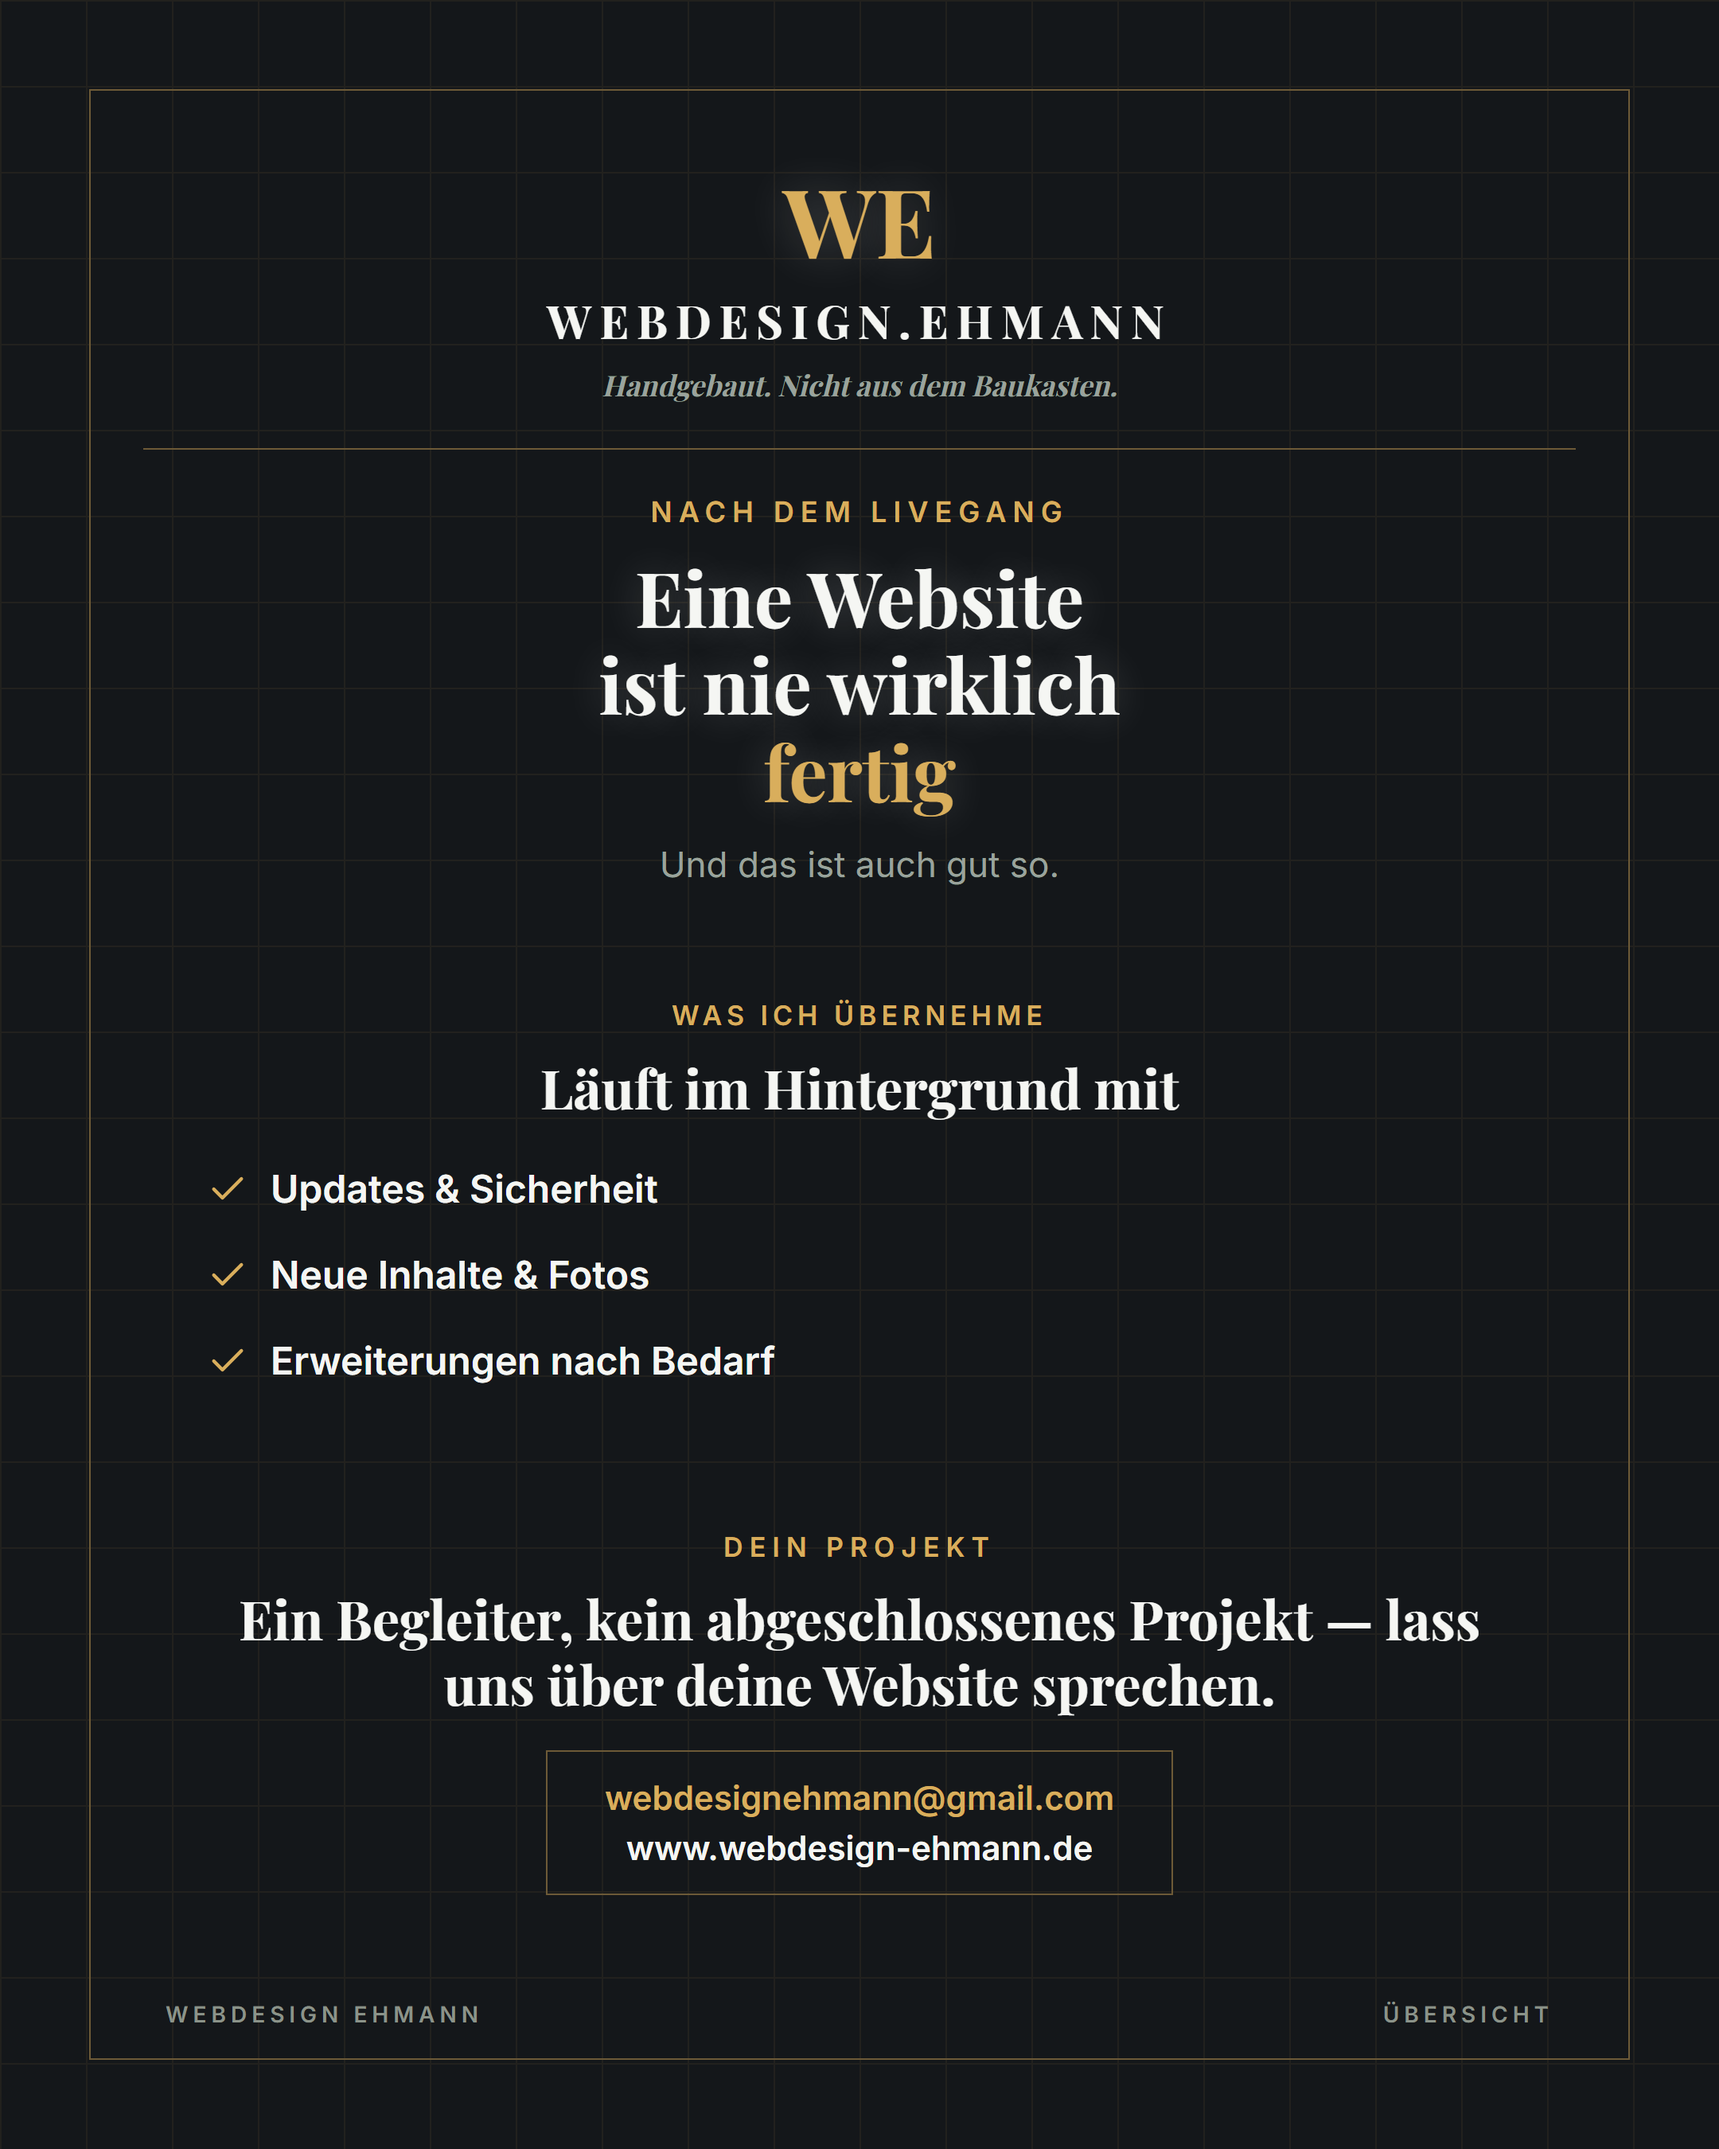
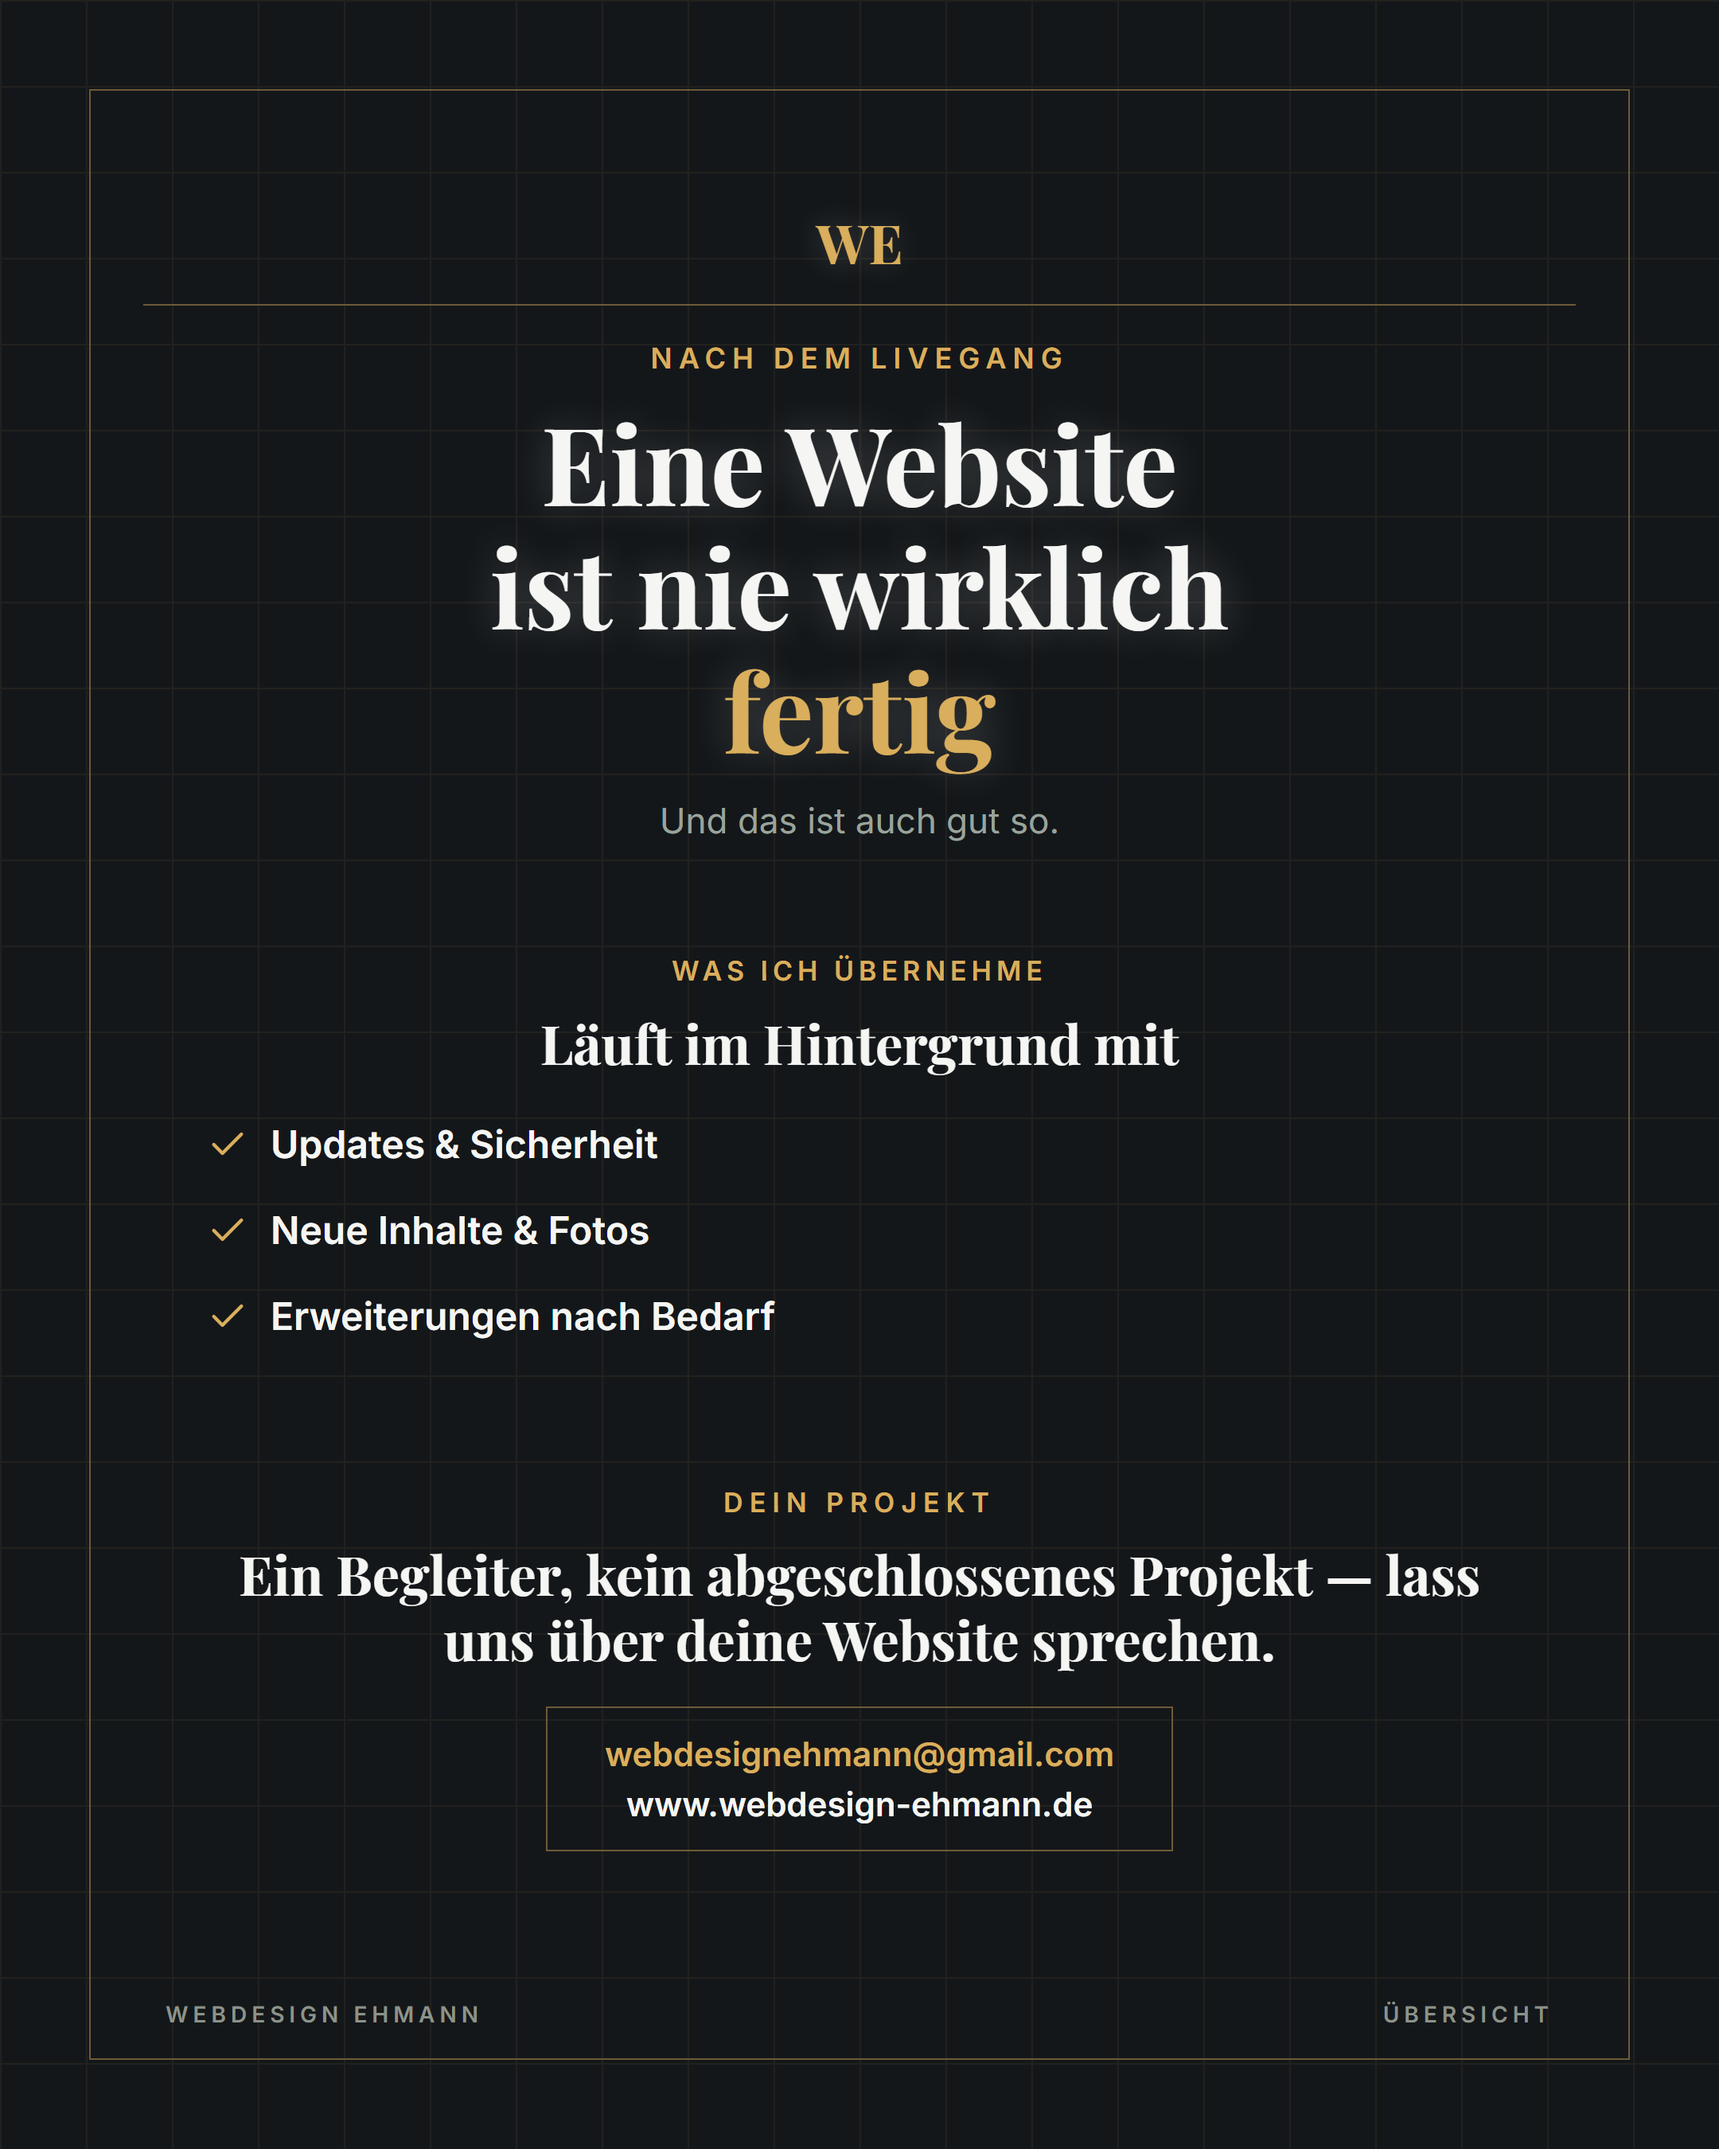
Instagram-Uebersicht-Slides: Header verkleinert, Headline vergroessert
Der Marken-Header oben (WEBDESIGN.EHMANN-Schriftzug + Tagline) hat zu
viel Platz weggenommen, dadurch wirkte die eigentliche Headline zu
klein. Jetzt nur noch das kleine "WE"-Zeichen oben, Headline-Groesse
deutlich erhoeht.

Ausserdem zwei fehlende Uebersichts-Grafiken ergaenzt: Tipp
Kontaktformular und serie-marketing.

diff --git a/assets/marketing/instagram-posts/_build/overview-generic.js b/assets/marketing/instagram-posts/_build/overview-generic.js
@@ -36,9 +36,9 @@ function lineCount(headline) {
 }
 function hookSize(headline) {
   const n = lineCount(headline);
-  if (n <= 1) return 66;
-  if (n === 2) return 58;
-  return 48;
+  if (n <= 1) return 94;
+  if (n === 2) return 82;
+  return 68;
 }
 
 function pointsColumns(points) {
@@ -87,10 +87,8 @@ html, body { width:${WIDTH}px; height:${HEIGHT}px; overflow:hidden; background:$
 }
 .frame { position:absolute; top:56px; left:56px; right:56px; bottom:56px; border:1px solid ${t.border}; }
 .col { position:absolute; left:90px; right:90px; top:60px; bottom:112px; display:flex; flex-direction:column; align-items:center; justify-content:center; text-align:center; overflow:hidden; }
-.logo-we { font-family:'Playfair Display',serif; font-weight:700; font-size:60px; color:${t.accent}; text-shadow:0 0 30px ${t.glow}; line-height:1; }
-.logo-name { font-family:'Playfair Display',serif; font-weight:700; font-size:29px; letter-spacing:5px; color:${t.headline}; margin-top:14px; }
-.logo-tag { font-family:'Playfair Display',serif; font-style:italic; font-size:18px; color:${t.subtext}; margin-top:9px; }
-.rule { width:100%; height:1px; background:${t.border}; margin:28px 0; flex-shrink:0; }
+.logo-we { font-family:'Playfair Display',serif; font-weight:700; font-size:34px; color:${t.accent}; text-shadow:0 0 20px ${t.glow}; line-height:1; }
+.rule { width:100%; height:1px; background:${t.border}; margin:22px 0; flex-shrink:0; }
 .kicker { font-family:'Inter',sans-serif; font-weight:600; font-size:18px; letter-spacing:4px; text-transform:uppercase; color:${t.kicker}; }
 .headline { font-family:'Playfair Display',serif; font-weight:700; line-height:1.14; color:${t.headline}; text-shadow:0 0 26px ${t.glow}; margin-top:15px; }
 .headline .accent { color:${t.accent}; }
@@ -111,8 +109,6 @@ html, body { width:${WIDTH}px; height:${HEIGHT}px; overflow:hidden; background:$
     <div class="frame"></div>
     <div class="col">
       <div class="logo-we">WE</div>
-      <div class="logo-name">WEBDESIGN.EHMANN</div>
-      <div class="logo-tag">Handgebaut. Nicht aus dem Baukasten.</div>
       <div class="rule"></div>
 
       <div class="kicker">${p.kicker}</div>
@@ -230,6 +226,39 @@ const OVERVIEWS = [
       "Erweiterungen nach Bedarf",
     ],
     ctaHeadline: "Ein Begleiter, kein abgeschlossenes Projekt — lass uns über deine Website sprechen.",
+  },
+  {
+    slug: "tipp-kontaktformular",
+    folder: "Tipp Kontaktformular",
+    outFile: "tipp-kontaktformular-uebersicht.png",
+    kicker: "TIPP",
+    headline: ["Warum ein „mailto:“-", "Link <span class=\"accent\">schadet</span>"],
+    subtext: "Kleines Detail, großer Unterschied für deine Kunden.",
+    pointsKicker: "SO LÖSE ICH ES",
+    pointsHeadline: "Ein echtes Kontaktformular",
+    points: [
+      "Keine sichtbare E-Mail-Adresse im Code",
+      "Funktioniert auch ohne Mail-App",
+      "Name, Nachricht, E-Mail — direkt an dich",
+    ],
+    ctaHeadline: "Bei jedem meiner Projekte Standard — schreib mir, wenn du das auch für deine Website willst.",
+  },
+  {
+    slug: "serie-marketing",
+    folder: "serie-marketing",
+    outFile: "serie-marketing-uebersicht.png",
+    kicker: "MARKETING · SERIE TEIL 3",
+    headline: ["Ein Auftritt.", "<span class=\"accent\">Überall.</span>"],
+    subtext: "Social Media, Flyer und Logo — auf Wunsch übernehme ich auch das, im selben Design wie deine Website.",
+    pointsKicker: "AUS EINER HAND",
+    pointsHeadline: "Ein einheitlicher Auftritt",
+    points: [
+      "Social-Media-Beiträge im Website-Design",
+      "Flyer für Aktionen & Veranstaltungen",
+      "Logo als Basis für alles",
+      "Kunden erkennen dich überall wieder",
+    ],
+    ctaHeadline: "Auch Social Media, Flyer oder Logo aus einer Hand? Schreib mir — wir besprechen gemeinsam, was zu deinem Betrieb passt.",
   },
 ];
 
